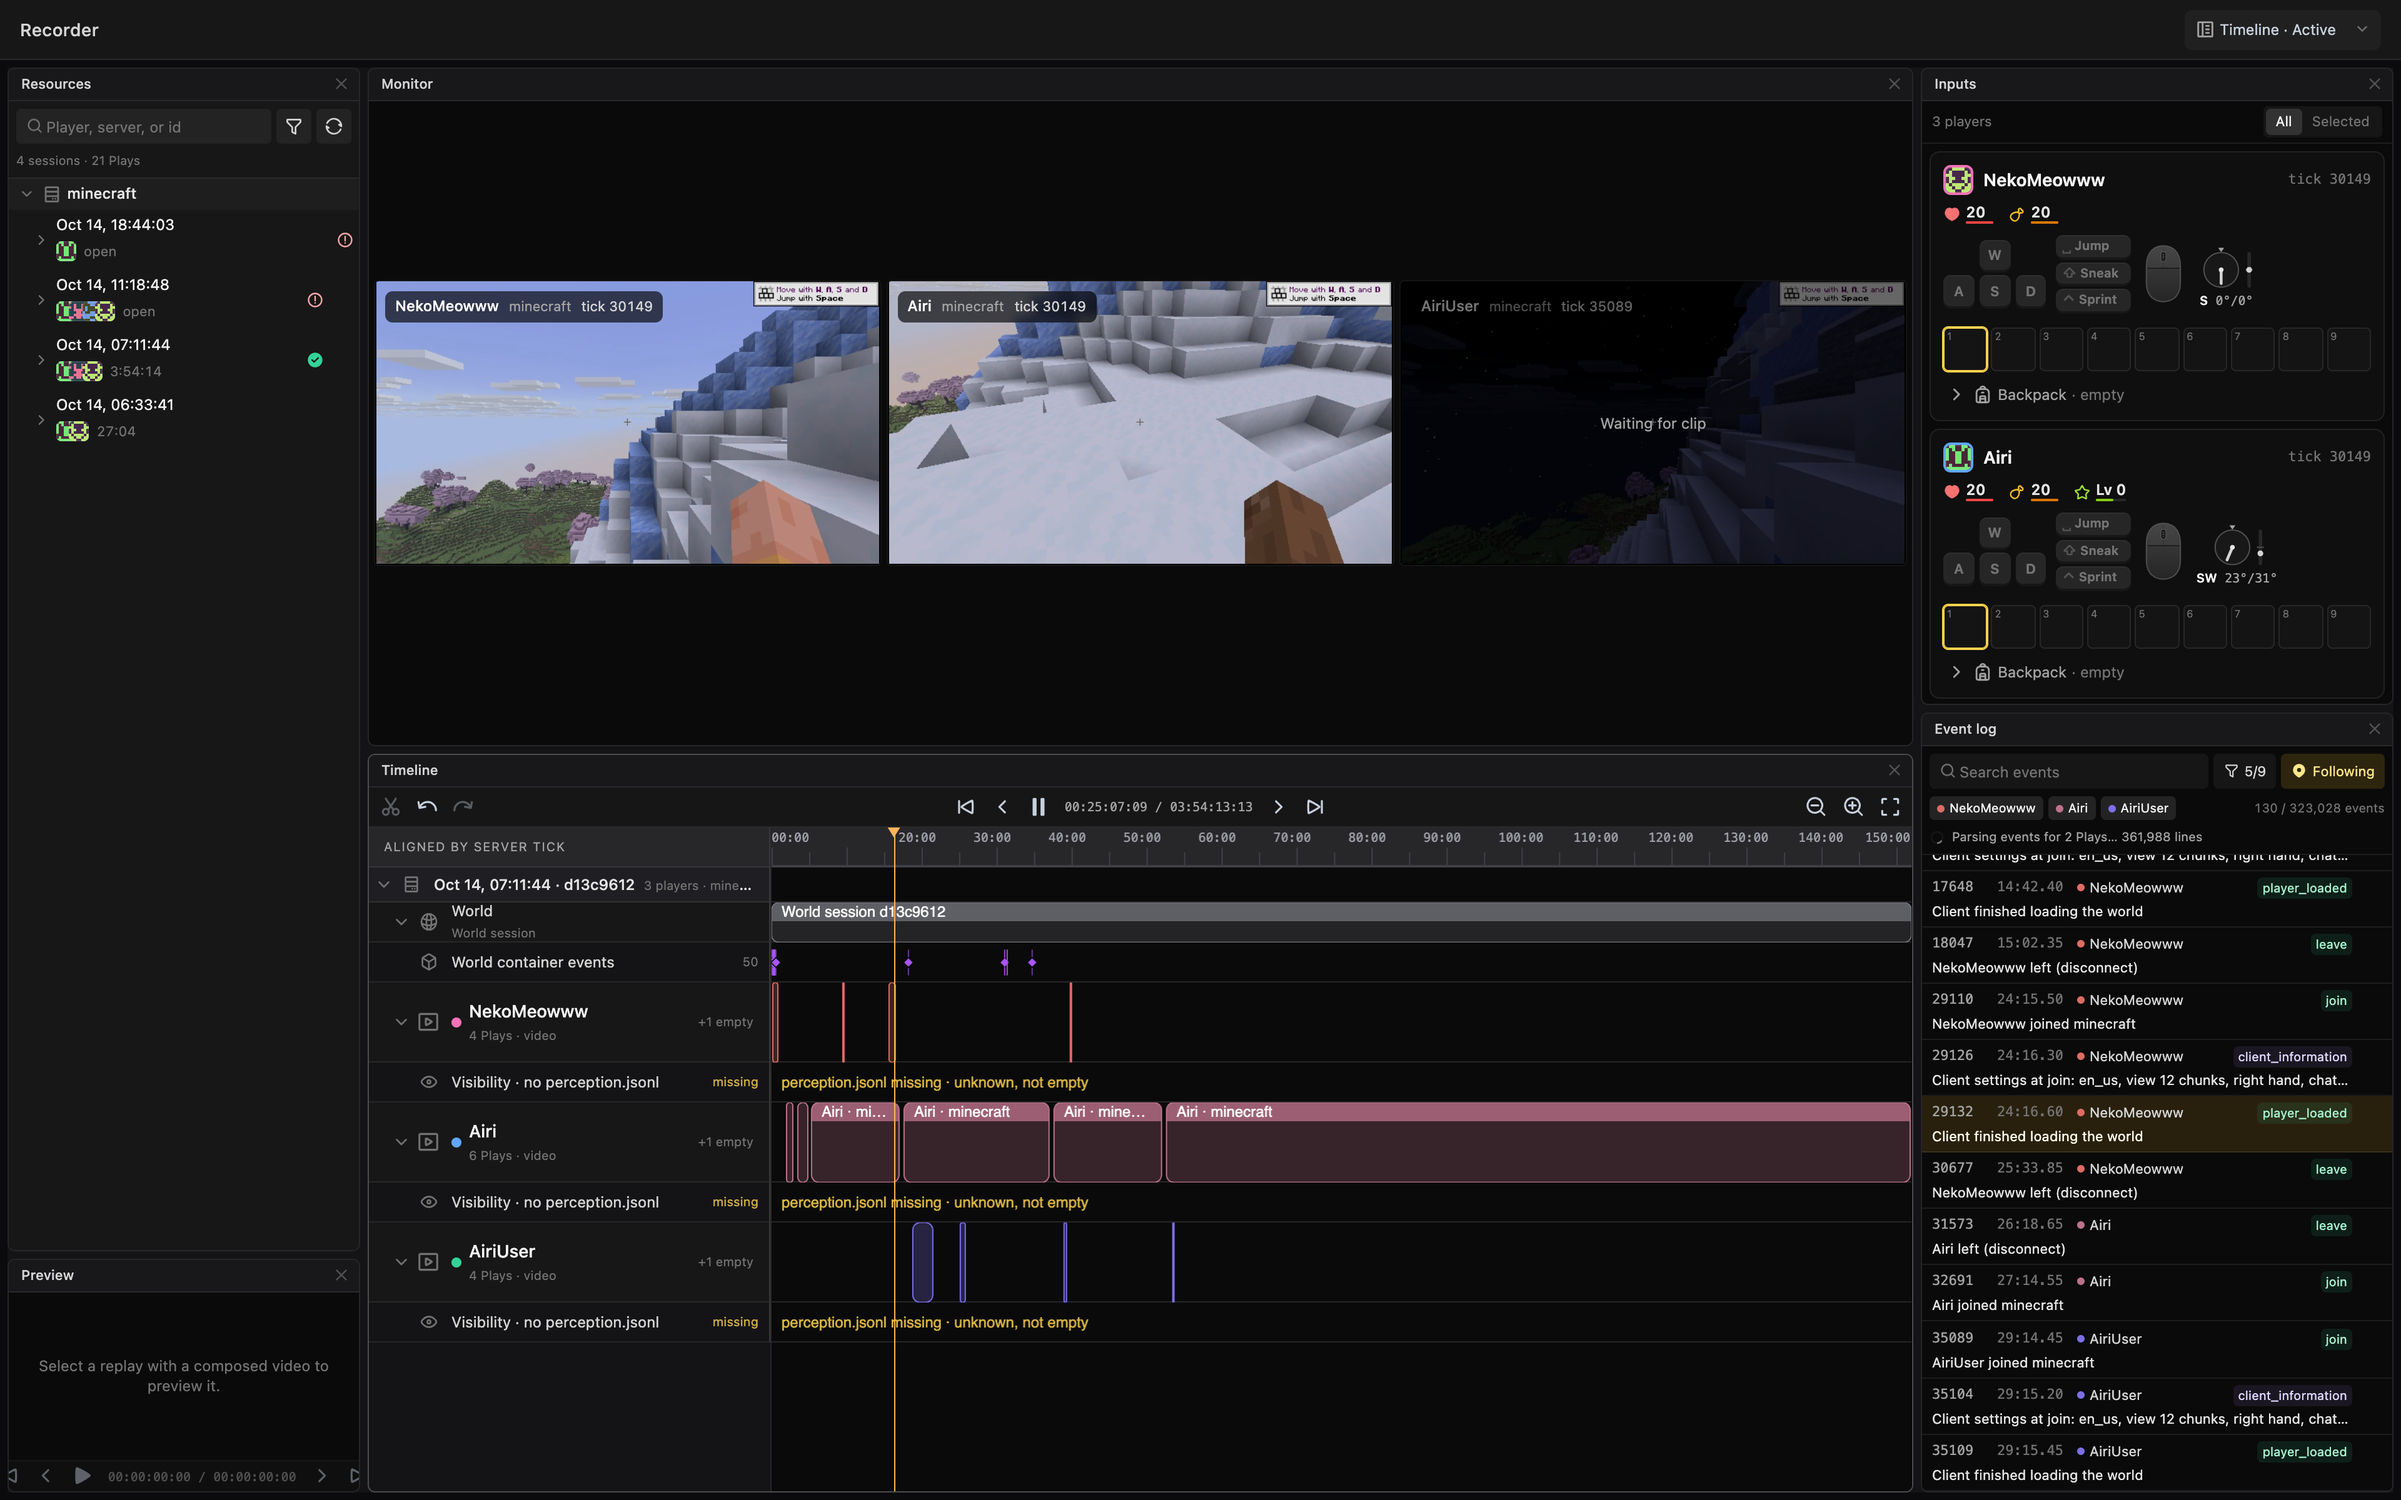
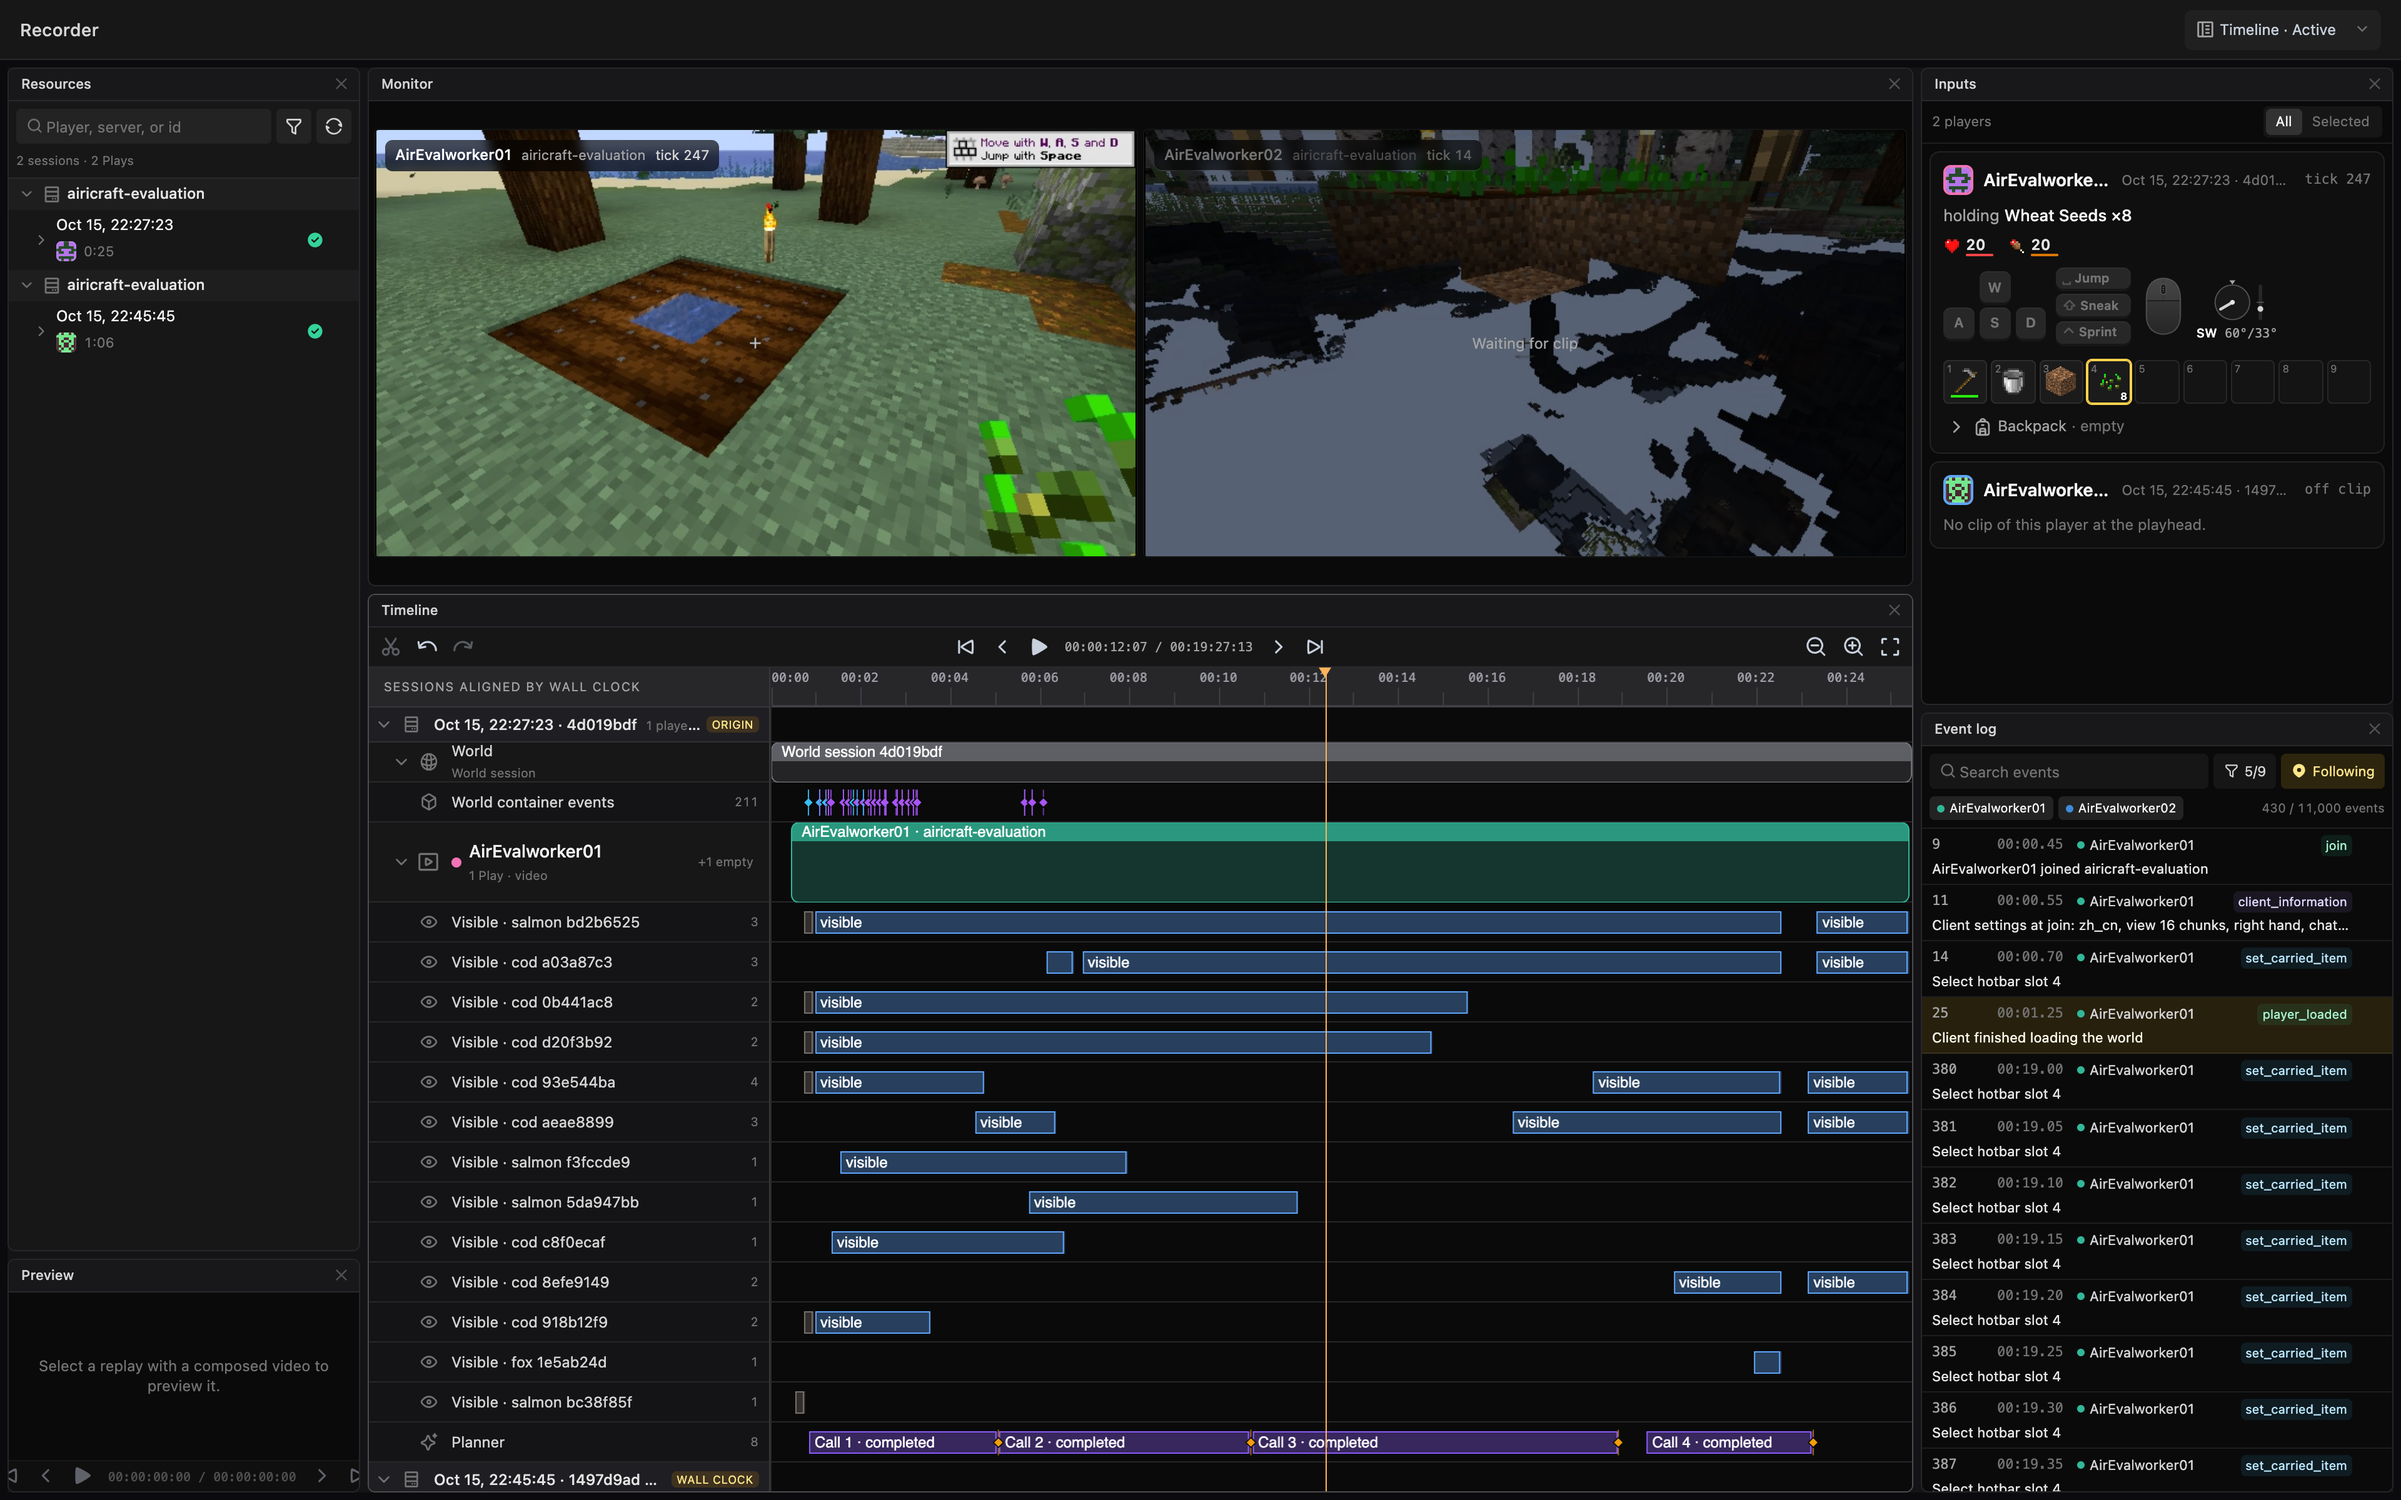
feat(2026-10-17-gosim-agentic-game-ai): new recorder tour and repo QR codes (#10)

diff --git a/packages/2026-10-17-gosim-agentic-game-ai/components/RecorderTour.vue b/packages/2026-10-17-gosim-agentic-game-ai/components/RecorderTour.vue
@@ -16,7 +16,7 @@ type Region = [number, number, number, number]
 interface Step {
   region?: Region
   /** Regions outlined with their number on the closing overview. */
-  outlines?: { n: number, region: Region }[]
+  outlines?: { n: number, region: Region, badge?: 'top' | 'left' }[]
   title: string
   zh: string
 }
@@ -27,42 +27,51 @@ const props = defineProps<{
 
 // Fractions of the screenshot (x0, y0, x1, y1), measured on the 3840 x 2400 capture.
 const R = {
-  timeline: [0.154, 0.506, 0.796, 0.992] as Region,
-  monitor: [0.155, 0.185, 0.795, 0.378] as Region,
-  inputs: [0.802, 0.098, 0.996, 0.468] as Region,
-  seen: [0.155, 0.098, 0.996, 0.468] as Region,
-  visibility: [0.154, 0.705, 0.796, 0.896] as Region,
+  timeline: [0.154, 0.396, 0.797, 0.994] as Region,
+  monitor: [0.156, 0.086, 0.794, 0.371] as Region,
+  inputs: [0.803, 0.100, 0.994, 0.367] as Region,
+  seen: [0.155, 0.080, 0.996, 0.375] as Region,
+  perception: [0.154, 0.602, 0.797, 0.948] as Region,
+  planner: [0.154, 0.950, 0.797, 0.974] as Region,
 }
 
 const steps: Step[] = [
   {
-    title: 'Three players, one clock',
-    zh: '10 月 14 日的一局，将近 4 小时，三个玩家，其中一个是 Airi',
+    title: 'Two workers, one timeline',
+    zh: '10 月 15 号跑的两局 Airicraft 评测，每局都是 AI 自己在玩',
   },
   {
     region: R.timeline,
-    title: 'Tracks aligned by server tick',
-    zh: '每个玩家一条轨道，横轴是服务端 tick，不是墙上的时钟',
+    title: 'Sessions on one clock',
+    zh: '两局按实际时间排在一起，一个 AI 一条轨道',
   },
   {
     region: R.seen,
-    title: 'What each one saw and pressed',
-    zh: '同一个 tick 下，每个人的第一人称画面，和他按着的键',
+    title: 'What it saw and pressed',
+    zh: '它这一刻看到了什么、按了哪些键、手里拿着啥',
   },
   {
-    region: R.visibility,
-    title: 'Missing is not empty',
-    zh: '还没算可见性的 Play，网页上写「未知」，不写「没看到」',
+    region: R.perception,
+    title: 'What it could see',
+    zh: '哪条鱼、哪只狐狸什么时候进了它的视野，一行一行都记着',
+  },
+  {
+    region: R.planner,
+    title: 'Every planner call is a track',
+    zh: '模型每想一次，时间线上就多一段',
   },
   {
     outlines: [
       { n: 1, region: R.timeline },
       { n: 2, region: R.monitor },
       { n: 3, region: R.inputs },
-      { n: 4, region: R.visibility },
+      // The perception and planner rows sit close to each other and to the
+      // timeline's own corner, so their badges go to other corners.
+      { n: 4, region: R.perception, badge: 'top' },
+      { n: 5, region: R.planner, badge: 'left' },
     ],
     title: 'One screen, one clock',
-    zh: '发生了什么、看到了什么、按了什么，还有哪里不知道',
+    zh: '发生了什么、看到了什么、按了什么，还有模型在想什么',
   },
 ]
 
@@ -120,7 +129,7 @@ const rings = computed(() => {
     const key = region.join()
     const focused = step.value.region?.join() === key
     const outline = step.value.outlines?.find(o => o.region.join() === key)
-    const nested = key === R.visibility.join()
+    const nested = key === R.perception.join() || key === R.planner.join()
     return { key, region, focused, outline, nested }
   })
 })
@@ -145,7 +154,7 @@ const rings = computed(() => {
         :class="{ focused: ring.focused, outlined: !!ring.outline, nested: ring.nested }"
         :style="box(ring.region)"
       >
-        <span v-if="ring.outline" class="num">{{ ring.outline.n }}</span>
+        <span v-if="ring.outline" class="num" :class="ring.outline.badge">{{ ring.outline.n }}</span>
       </div>
     </div>
 
@@ -210,7 +219,7 @@ const rings = computed(() => {
   border-color: rgb(247 219 143 / 90%);
 }
 
-/* The visibility rows sit inside the timeline box: dashed so the two read apart. */
+/* The perception and planner rows sit inside the timeline box: dashed so they read apart. */
 .ring.outlined.nested {
   border-style: dashed;
 }
@@ -231,6 +240,18 @@ const rings = computed(() => {
   background: #f7db8f;
   box-shadow: 0 4px 12px rgb(0 0 0 / 35%);
   animation: num-in 400ms ease both;
+}
+
+.num.top {
+  top: 0;
+  bottom: auto;
+  transform: translate(45%, -45%) scale(calc(1 / var(--s)));
+}
+
+.num.left {
+  right: auto;
+  left: 0;
+  transform: translate(-45%, 45%) scale(calc(1 / var(--s)));
 }
 
 @keyframes num-in {

diff --git a/packages/2026-10-17-gosim-agentic-game-ai/slides.md b/packages/2026-10-17-gosim-agentic-game-ai/slides.md
@@ -1146,7 +1146,7 @@ glow: left
 
 ---
 layout: gosim-video
-clicks: 4
+clicks: 5
 ---
 
 <!-- slide:E3b -->
@@ -1155,15 +1155,17 @@ clicks: 4
 
 <!--
 [Neko]
-刚才是示意图。这是 recorder 网页端真实的样子，录的是 10 月 14 号的一局：将近 4 个小时，三个玩家，其中 Airi 是我们的 AI 伙伴。
+刚才是示意图。这是 recorder 网页端真实的样子，录的是 10 月 15 号跑的两局 Airicraft 评测，每局都是 AI 自己在玩。
 
-[click] 先看下面的时间线。每个玩家一条轨道，每次连上服务器是一段。左上角写着「按服务端 tick 对齐」：横轴是服务器的 tick，不是墙上的时钟。
+[click] 先看下面的时间线。两局按实际时间排在一起，一个 AI 一条轨道，每次连上服务器是一段。
 
-[click] 上面是每个人的第一人称画面，同一个 tick 并排放，角上标着 tick，这里两个人都是 30149。右边是他们这一刻按着哪些键、朝哪看、快捷栏选的哪格，还有血量和饱食度。
+[click] 上面是它的第一人称画面，角上标着 tick，这里是 247。右边是它这一刻按着哪些键、朝哪看、快捷栏选的哪格，手里拿着 8 个小麦种子，还有血量和饱食度。
 
-[click] 轨道下面这几行黄字：这几个 Play 还没跑可见性。网页不会假装「她什么都没看到」，写的是：未知，不是空。
+[click] 回到时间线，视频下面这一排是它的视野：哪条鱼、哪只狐狸什么时候出现在画面里，一行一行都记着。以后回头看「它当时为什么这么做」，就先看它当时能看到什么。
 
-[click] 一屏就是这四件事：发生了什么，每个人看到了什么，按了什么，还有哪里我们不知道。左边还有资源面板，每个 Play 进来前都会先校验。Airicraft 的模型调用以后也会挂成一条轨道，这几局还没有，我就不拿假数据演示了。
+[click] 最下面这行是 Planner。Airicraft 的模型每想一次，这里就多一段，跟画面、按键用的是同一个时钟。
+
+[click] 所以一屏能看到这几件事：发生了什么，它看到了什么、按了什么，还有模型在想什么。左边还有资源面板，每个 Play 进来前都会先校验。
 -->
 
 ---
@@ -1453,7 +1455,15 @@ glow: center
 <div h-full flex flex-col items-center justify-center text-center>
   <div text-5xl font-bold>Interested?</div>
   <div class="zh" mt-2 text-lg>欢迎设计师、产品经理、工程师一起来做</div>
-  <div mt-8 flex gap-10>
+  <div mt-8 flex gap-6>
+    <div flex flex-col items-center gap-3>
+      <div class="f5-qr"><img src="./public/closing/airicraft_qr.png" alt="Airicraft QR code"></div>
+      <div font-bold text-xl>Airicraft</div>
+    </div>
+    <div flex flex-col items-center gap-3>
+      <div class="f5-qr"><img src="./public/closing/recorder_qr.png" alt="recorder-minecraft QR code"></div>
+      <div font-bold text-xl>Recorder</div>
+    </div>
     <div flex flex-col items-center gap-3>
       <div class="f5-qr"><img src="./public/closing/github_qr.png" alt="GitHub QR code"></div>
       <div font-bold text-xl>GitHub</div>
@@ -1471,9 +1481,9 @@ glow: center
 
 <style>
 .f5-qr {
-  width: 216px;
-  height: 216px;
-  border-radius: 28px;
+  width: 156px;
+  height: 156px;
+  border-radius: 22px;
   background: #fff;
   box-shadow: 0 12px 32px rgb(10 37 64 / 10%);
   overflow: hidden;
@@ -1487,7 +1497,7 @@ glow: center
 
 <!--
 [Neko]
-如果你感兴趣，扫码就能找到我们：GitHub、Discord 和 Telegram 都在这儿。今天提到的代码都开源，不管你做设计、做产品还是写代码，都欢迎来一起玩。
+如果你感兴趣，扫码就能找到我们：今天讲的 Airicraft 和 recorder 的仓库，还有 GitHub、Discord 和 Telegram 都在这儿。今天提到的代码都开源，不管你做设计、做产品还是写代码，都欢迎来一起玩。
 -->
 
 ---
